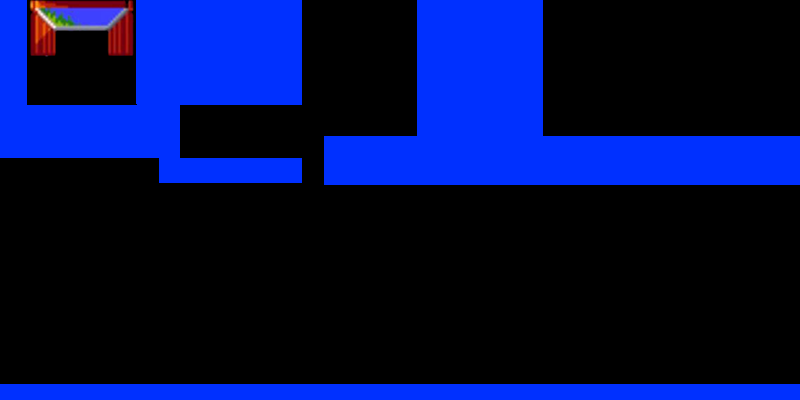
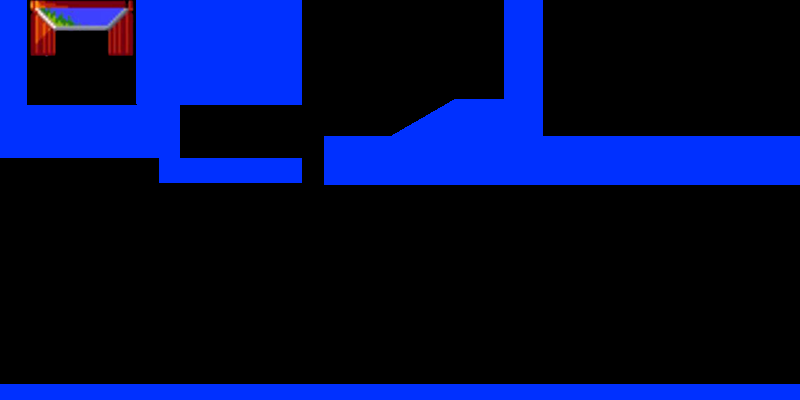
lemmings - tweak digv and digh ranges

Changed region(s): [[0.5, 0.0, 0.6562, 0.36]]

diff --git a/lemmings/nodes/actions.py b/lemmings/nodes/actions.py
@@ -148,9 +148,9 @@ class DigV:
         dx = self.lemming.actions.walk.dx
 
         rect = self.lemming.rect.copy()
-        rect.top = rect.bottom
+        rect.top = rect.bottom - 1
         rect.left += 10 if dx > 0 else 0
-        rect.size = (20, 1)
+        rect.size = (20, 2)
 
         self.lemming.bg.original.fill(
             pygame.Color("black"), rect
@@ -177,8 +177,8 @@ class DigH:
         dx = self.lemming.actions.walk.dx
 
         rect = self.lemming.rect.copy()
-        rect.left = rect.right if dx > 0 else rect.left - 1
-        rect.width = 2
+        rect.left = rect.right - 15 if dx > 0 else rect.left - 1
+        rect.width = 16
 
         self.lemming.bg.original.fill(
             pygame.Color("black"), rect
